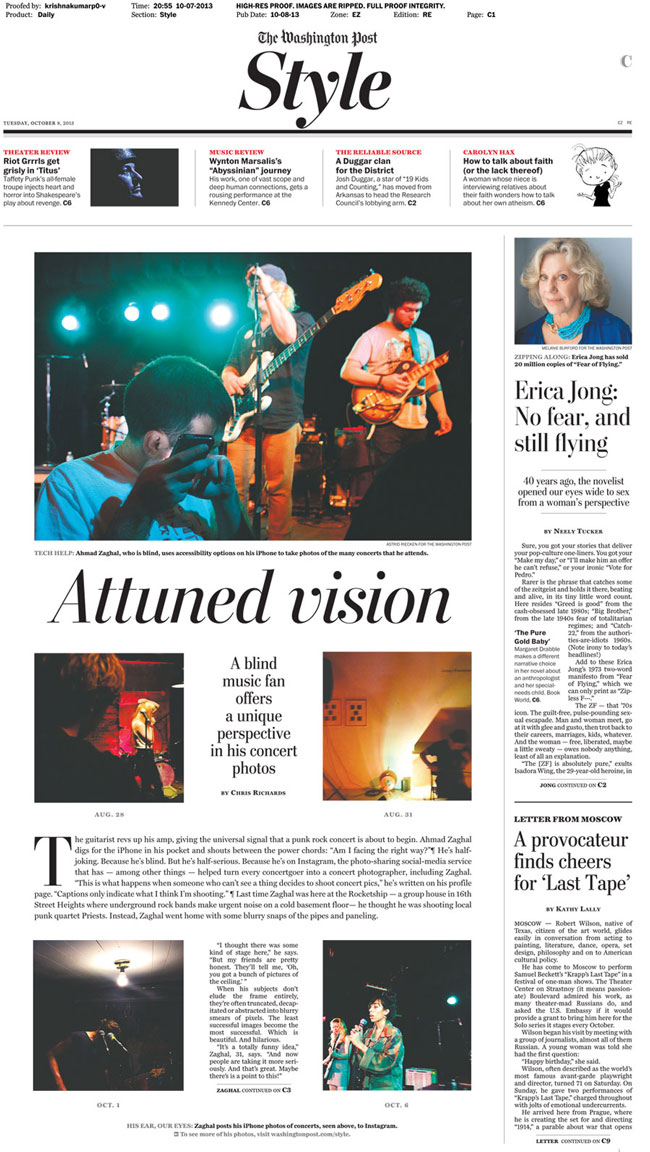
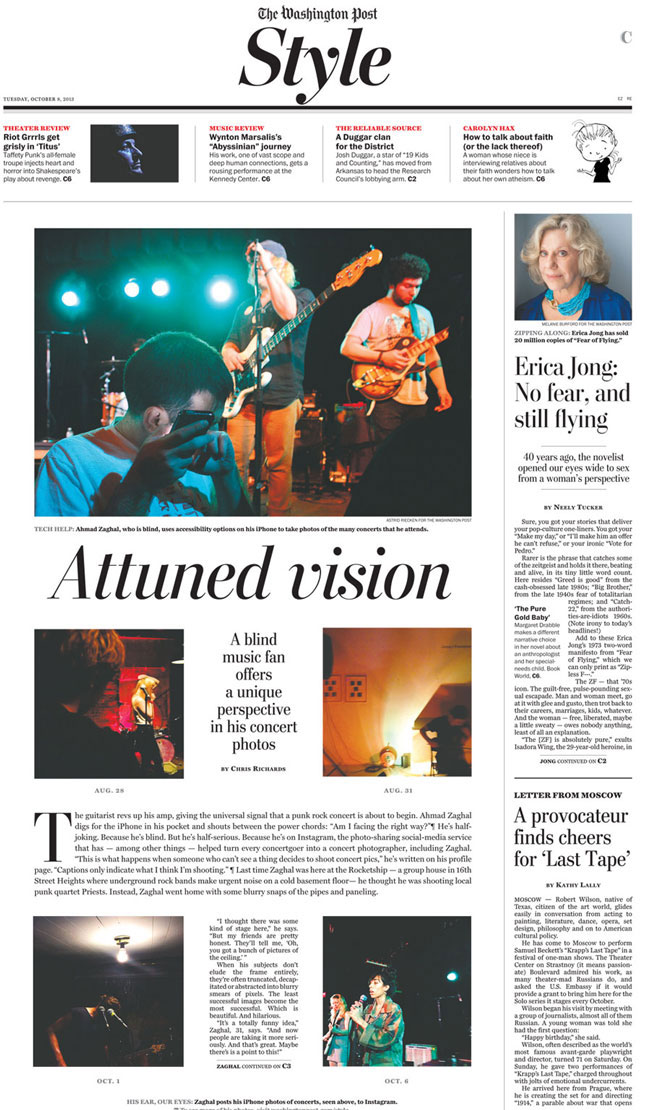
img changes and meta

diff --git a/style.css b/style.css
@@ -73,8 +73,8 @@ img.nbn {
 }
 
 img.wapo {
-	height: 16em;
-	margin-right: 15px;
+	width: 18%;
+	margin-right: 1%;
 	border: 1px solid #ccc;
 	margin-bottom: 10px;
 }
@@ -235,10 +235,6 @@ padding-left: 0;
   	width: 60%;
   }
 
-
-  img.wapo {
-  	height: 13em;
-  }
   }
 
   @media (max-width: 1080px) {
@@ -278,10 +274,10 @@ padding-left: 0;
     margin-top: 7%;
   }	
 
-  img.nbn {
-  	height: 8em;
+  /*img.nbn {
+  	height: 50%;
   	margin-right: 5px;
-  }
+  }*/
 
   img.wapo {
   	width: 12em;
@@ -312,15 +308,8 @@ padding-left: 0;
 
 }
 
-@media (max-width: 767px) {
-
-}
 
 @media (max-width: 650px) {
-		img.wapo {
-		width: 90%;
-		height: auto;
-	}
 
 		img.nbn {
 			width: 45%;

diff --git a/index.html b/index.html
@@ -30,6 +30,8 @@
 	<link rel="shortcut icon" href="img/favicon.ico" type="image/x-icon" />
 	<!--END CSS-->
 	<title>Priya Krishnakumar</title>
+	<meta name="viewport" content="user-scalable=0, initial-scale=1.0">
+
 </head>
 <body>
 
